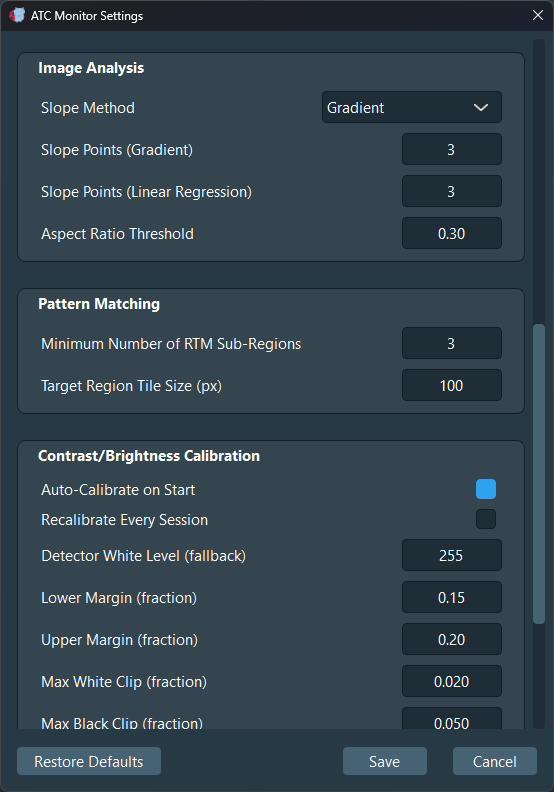
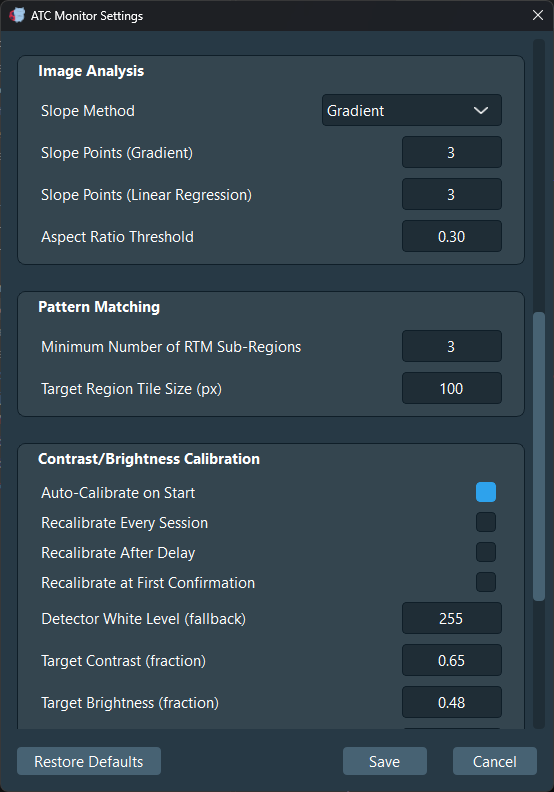
ATC Monitor page: v3.4.7
The calibration paragraph and the files table describe what 3.4.7 does
and writes: Target Contrast and Target Brightness, the recalibration
options and the start retry; no cb_plant.json; cb_trace.csv in saved runs.
The Settings screenshots show the 3.4.7 calibration group.

diff --git a/content/scripts/atc_monitor.md b/content/scripts/atc_monitor.md
@@ -1,7 +1,7 @@
 ---
 title: ATC Monitor
 breadcrumbs: false
-version: "3.4.4"
+version: "3.4.7"
 repo: ATC_Monitor
 ---
 
@@ -76,7 +76,7 @@ ATC Monitor can save the images being pulled from the RTM data. It saves the raw
 
 The script's requirements differ from the standard list under [Requirements](/scripts/#requirements) on the [Scripts](/scripts/) page. The script requires:
 
-* PySide6 6.7.1 (pinned; the worker teardown path was validated against this release)
+* PySide6 6.7.1
 * shiboken6 6.7.1
 * Python 3.11+
 * NumPy 2.2.5+
@@ -236,9 +236,9 @@ Every parameter has a tooltip in the application, so rather than repeating them 
 * Image Processing --- how each RTM image is prepared and how the foreground is isolated for the Percent Pixels/Foreground Energy metric: Gaussian blur, dilation, the Binarization Method and its related parameters, and the Foreground Completion Mode with its stall-latch settings (see [Pattern Monitoring: Grid Bar](#pattern-monitoring-grid-bar)).
 * Image Analysis --- how the slopes of the mean pixel values and match scores are calculated (Gradient or Linear Regression, and over how many points), plus the aspect-ratio threshold that keeps monitoring idle for narrow patterns such as stress-relief cuts.
 * Pattern Matching --- the sub-region grid used for analysis: the cropped RTM area is divided into tiles, mean pixel values and match scores are calculated per tile, and the highest values drive the results. To reduce sensitivity, increase the target tile size and reduce the minimum number of sub-regions.
-* Contrast/Brightness Calibration --- automatic detector contrast/brightness balancing: whether it runs, how often, its brightness and dynamic-range targets, clipping limits, and measurement budget.
+* Contrast/Brightness Calibration --- automatic detector contrast/brightness balancing: whether and when it runs, its Target Contrast and Target Brightness, clipping limits, and measurement budget.
 
-With Auto-Calibrate on Start enabled, the script calibrates detector contrast and brightness once at the start of a run, aiming for a target median brightness and dynamic range while keeping clipping within the set limits. The measured response of each detector is cached in `logs\cb_plant.json` and reused to speed up later runs. The file is created automatically, is keyed by system name so several microscopes can share one deployment, and can be deleted safely.
+With Auto-Calibrate on Start enabled, the script calibrates detector contrast and brightness when patterning starts, aiming for the Target Contrast and Target Brightness while keeping clipping within the set limits, and then holds that setting so the analysis criteria are not disrupted. A start calibration that does not converge is run a second time. By default, only the first patterning session of a run is calibrated; Recalibrate Every Session calibrates every session, and Recalibrate After Delay and Recalibrate at First Confirmation each add one more calibration during a session. Each calibration measures the detector's response on the live RTM images.
 
 ## Files the Application Writes
 
@@ -246,12 +246,11 @@ All paths are relative to the script's root directory unless shown otherwise.
 
 | Path | Contents | Growth |
 | --- | --- | --- |
-| `logs\atc_monitor.log` | Main application log, one line per event. | Rotating, 5 MB × 5 files. |
+| `logs\atc_monitor.log` | Main application log, one line per event. | Rotating, 5 MB per file; about 30 MB at most. |
 | `logs\faulthandler.log` | Crash and diagnostic record, copied here at startup from the local per-user copy. | Rotates to `.1` at 5 MB. |
 | `%LOCALAPPDATA%\ATC_Monitor\logs\faulthandler.log` | The live crash record, kept on local disk so a crash is never lost to a network share. | Swept and reset at each launch. |
-| `Saved_Data\Run-N_<timestamp>\` | Images, per-batch metrics, plots, and run metadata. Written only when Save Data is checked. | One directory per run; delete when no longer needed. |
-| `logs\cb_plant.json` | Learned detector response, keyed by system name. | A few hundred bytes. |
+| `Saved_Data\Run-N_<timestamp>\` | Images, per-batch metrics, plots, run metadata, and the calibration trace (`cb_trace.csv`) when a calibration ran. Written only when Save Data is checked. | One directory per run; delete when no longer needed. |
 
 If the script directory is not writable, the script falls back to `%LOCALAPPDATA%` for its logs and reports where they went in the log's first lines. Log retention is automatic; only `Saved_Data` grows without limit.
 
-The first line of `logs\atc_monitor.log` records the running version, for example `LAUNCH app=3.4.4`. Check it after updating to confirm the version you intended is the one running.
+Each launch adds a line such as `LAUNCH app=3.4.7` to `logs\atc_monitor.log`. Check the newest one after updating to confirm the version you intended is the one running.
